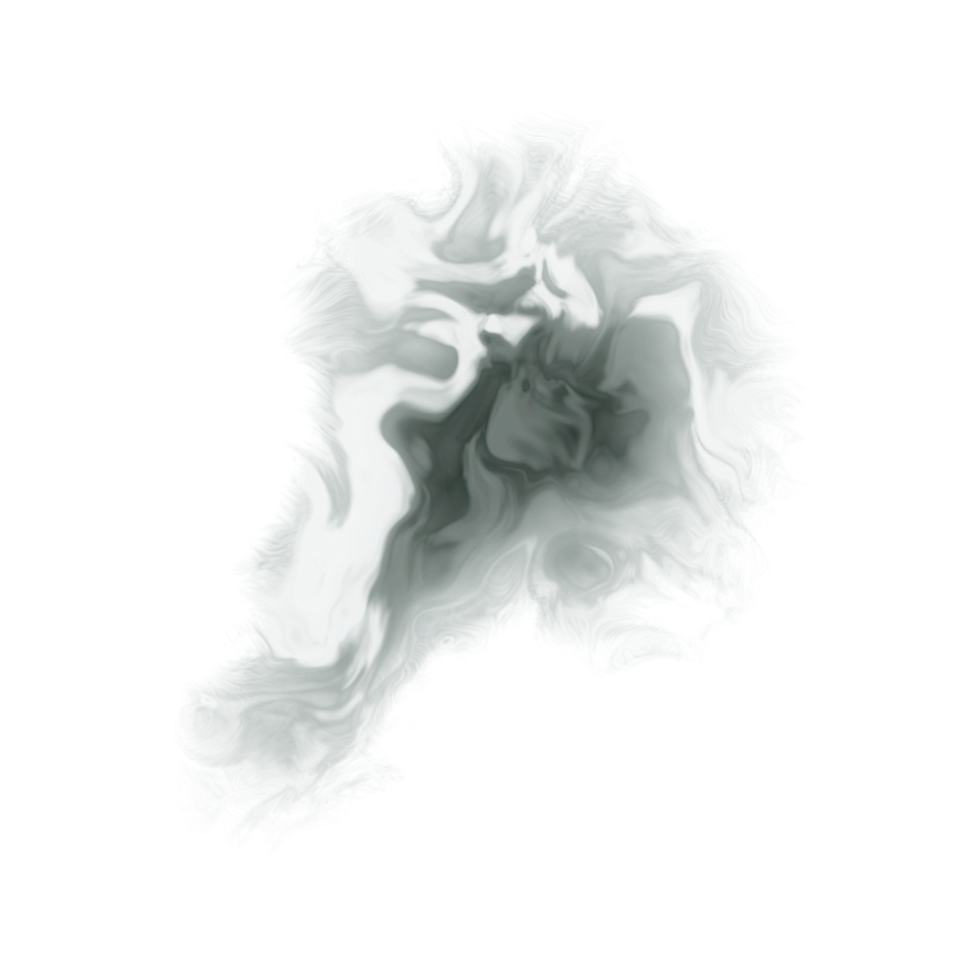
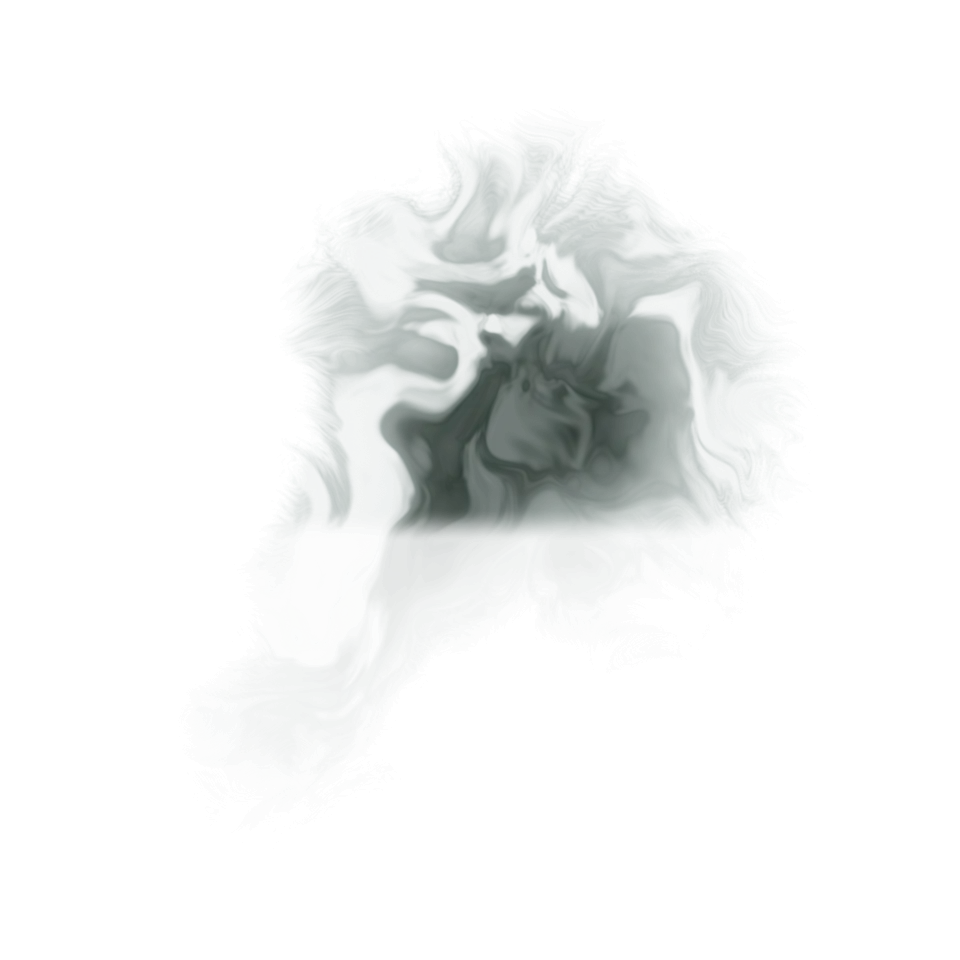
fix(advocacia): scene host fits the first screen; stable, AA-safe still
- Only the top of the hero (rule and headline) hosts the canvas, so the host
  never needs scrolling into view, the lede and facts sit on plain paper, and
  the host has no padding (the runtime sizes the canvas from the content box).
- The intro no longer restarts after the slow-device jump to its end, and
  ScrollTrigger refreshes once the webfonts settle the headline height.
- The canvas gets its own 3D layer: under the sticky banner, Chromium's
  software compositor otherwise presented only part of it.
- Headline calm boxes come from the glyphs, not the split line boxes; shader
  avoids pow() of negative bases and reversed smoothstep edges.
- The narrow still bakes the headline cap into its lower band (worst-case
  headline contrast now 7.9:1 live and fallback, 320 to 1920 px).

Changed region(s): [[0.2188, 0.5312, 0.7188, 0.8125], [0.2812, 0.5625, 0.3125, 0.5938]]

diff --git a/src/components/demos/advocacia/scene.ts b/src/components/demos/advocacia/scene.ts
@@ -117,15 +117,15 @@ void main() {
   vec2 rel = (uu - centre) + 0.55 * s;
   float al = dot(rel, axis);
   float ac = dot(rel, perp);
-  float stem = smoothstep(0.05, -0.9, al);
+  float stem = 1.0 - smoothstep(-0.9, 0.05, al);
   float d = length(vec2(al * mix(0.92, 0.56, stem), ac * mix(1.12, 2.3, stem))) / grow;
 
   // Paper at the front: random, wriggly hairs where the ink wicks into the fibres.
   // Each patch of fibres lies along the local flow, so they read as hairs, not grain.
   float ang = 3.1 * (q.x + s.y);
   mat2 along = mat2(cos(ang), sin(ang), -sin(ang), cos(ang));
-  float hair = pow(1.0 - abs(noise(along * u * vec2(9.0, 64.0) + 3.0 * s)), 8.0)
-             + 0.7 * pow(1.0 - abs(noise(along * u * vec2(6.0, 38.0) + 7.0)), 8.0);
+  float hair = pow(clamp(1.0 - abs(noise(along * u * vec2(9.0, 64.0) + 3.0 * s)), 0.0, 1.0), 8.0)
+             + 0.7 * pow(clamp(1.0 - abs(noise(along * u * vec2(6.0, 38.0) + 7.0)), 0.0, 1.0), 8.0);
   float fine = fbm(u * 12.0 + s * 3.0, 2);
   float front = d + 0.12 * n + 0.05 * fine - 0.09 * hair * smoothstep(0.55, 0.95, d) + 0.3 * f;
 
@@ -243,11 +243,17 @@ export function create(canvas: HTMLCanvasElement, _ctx: SceneContext): SceneInst
     host.querySelectorAll<HTMLElement>('[data-ink-calm]').forEach((el) => {
       const limit = parseFloat(el.dataset.inkCalm || '0') || 0;
       if (limit === 0) return push(el.getBoundingClientRect(), 0);
-      // Large type: one box per line, so the ink can come close to the ragged right edge.
+      // Large type: one box per line, from the glyphs only (not the split line boxes), so the
+      // ink can come close to the ragged right edge.
       const range = document.createRange();
-      range.selectNodeContents(el);
+      const glyphs: DOMRect[] = [];
+      const walker = document.createTreeWalker(el, NodeFilter.SHOW_TEXT);
+      for (let node = walker.nextNode(); node; node = walker.nextNode()) {
+        range.selectNodeContents(node);
+        glyphs.push(...range.getClientRects());
+      }
       const lines: { left: number; top: number; right: number; bottom: number }[] = [];
-      for (const r of range.getClientRects()) {
+      for (const r of glyphs) {
         if (r.width < 1) continue;
         const line = lines.find((l) => Math.abs(l.top - r.top) < r.height * 0.5);
         if (line) {
